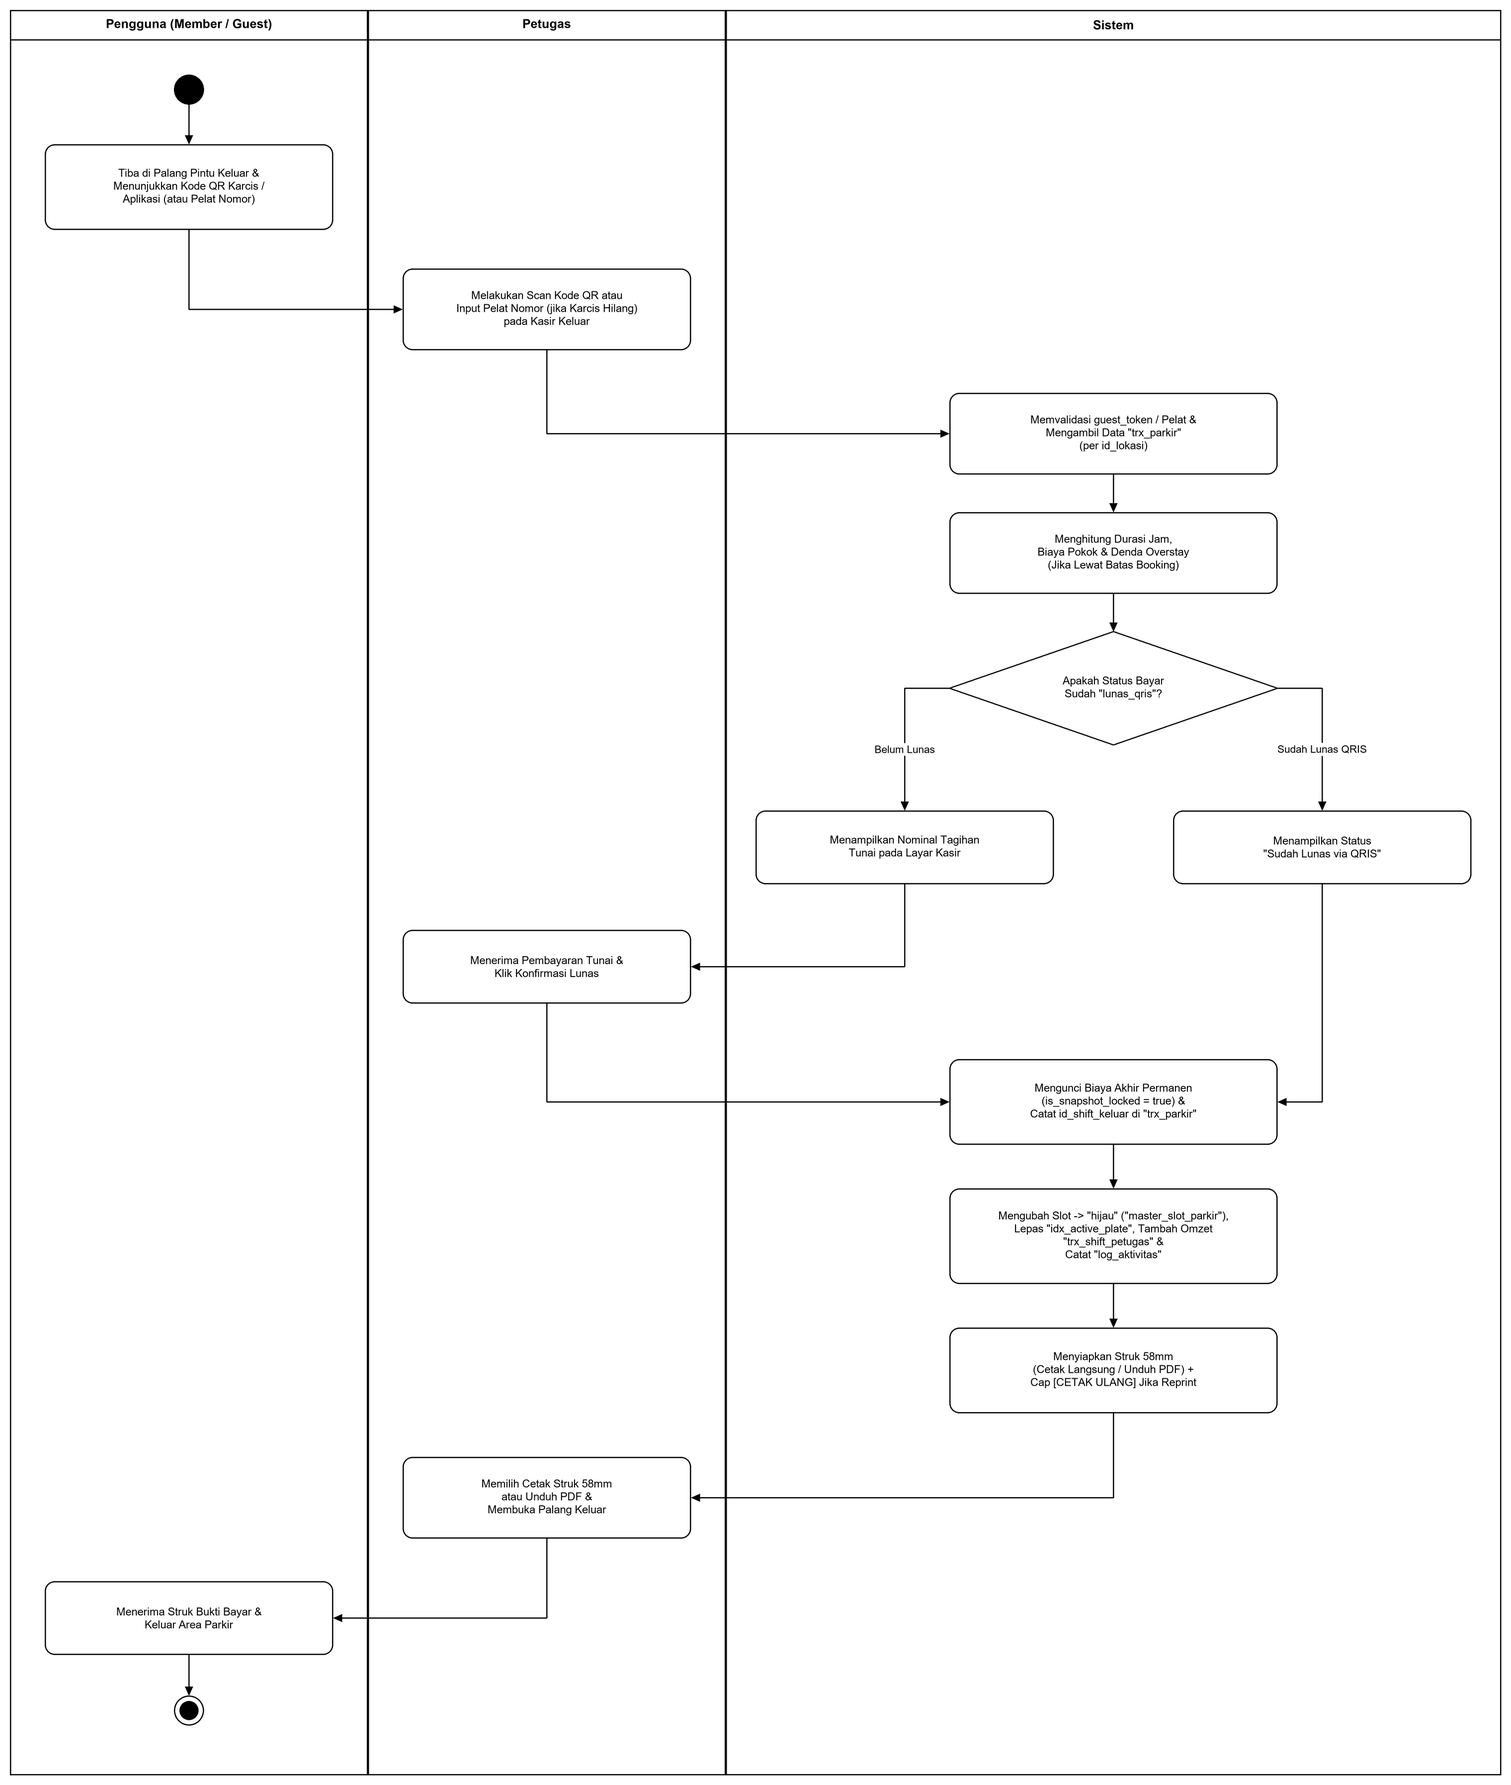
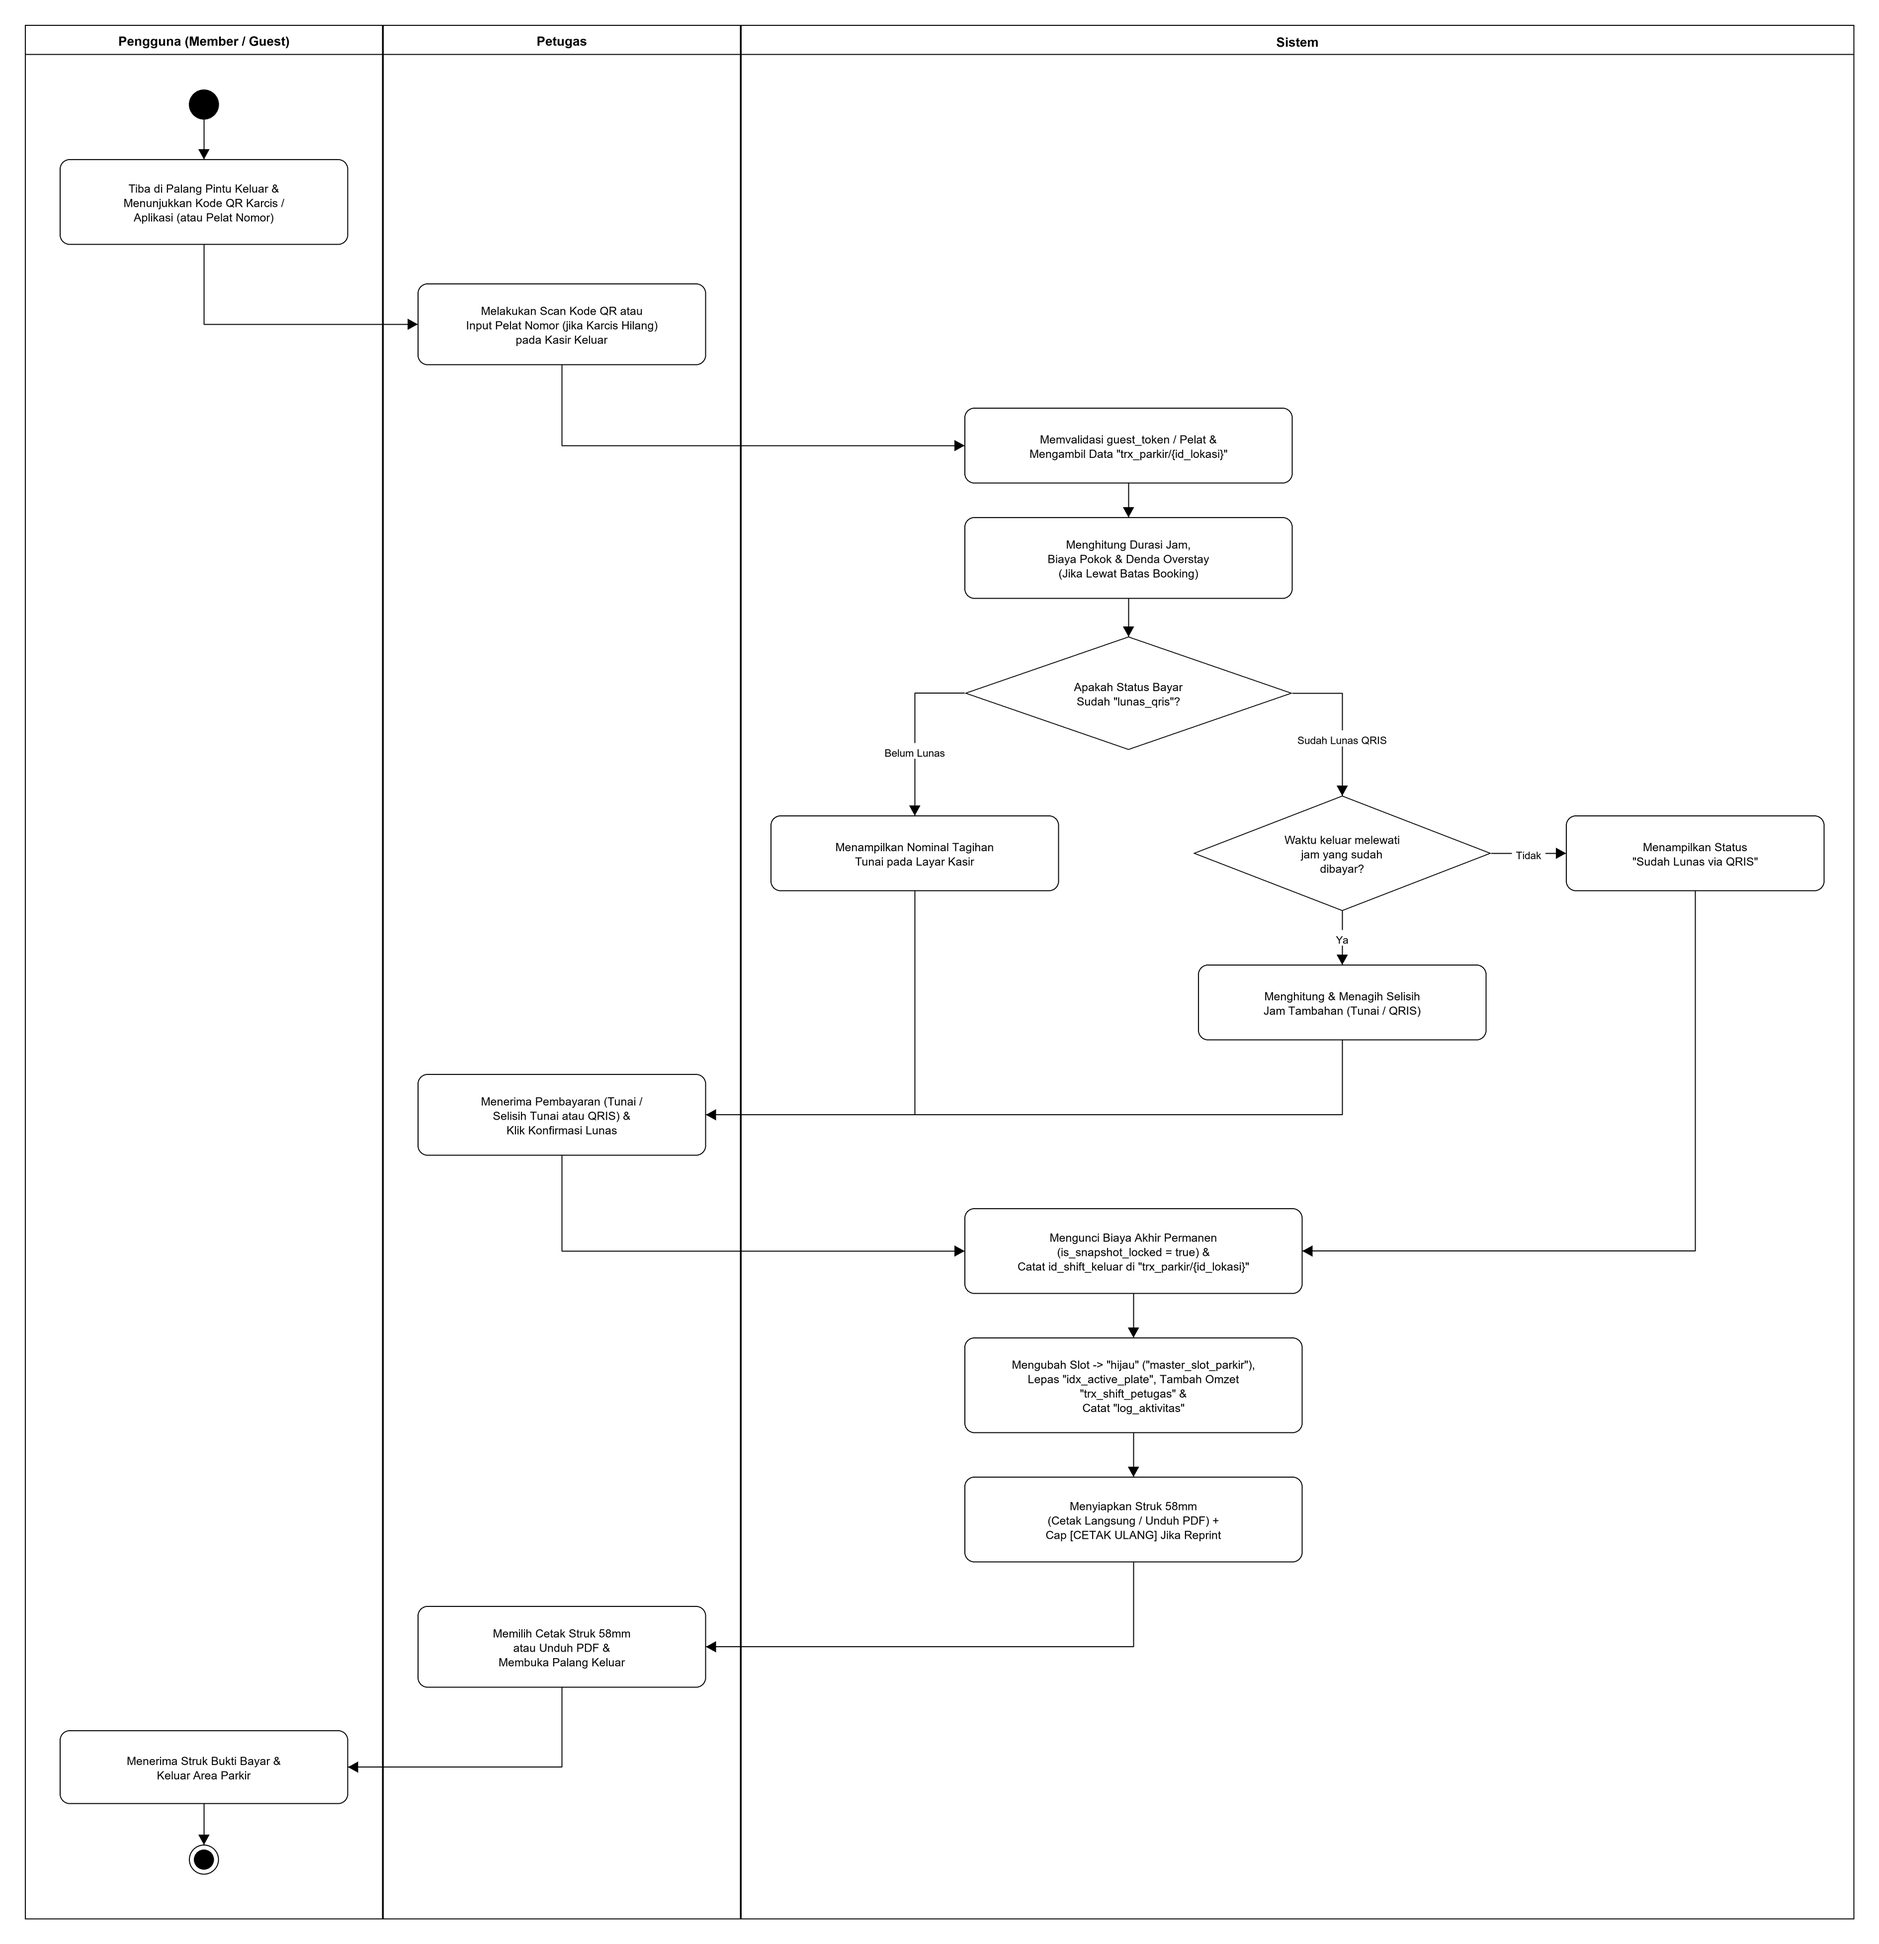
revisi activity keluar gerbang tambah cek selisih jam qris

diff --git a/docs/PROGRESS.md b/docs/PROGRESS.md
@@ -68,8 +68,8 @@ Dokumen ini memantau status pengerjaan setiap butir revisi hasil sidang Quality 
 | **12/13** | `Diagram ParkSpot UKK-Sequence Pembayaran (QRIS) (Revisi)` | 🟢 Selesai | 🟢 Selesai | 🟢 PASS (Batch ACC) | 5 lifeline (termasuk Midtrans Sandbox), 1..16 urut, rasio H/W 0.70, kembali ke aktor |
 | **13/13** | `Diagram ParkSpot UKK-Use Case (Revisi)` | 🟢 Selesai | 🟢 Selesai | 🟢 PASS (Batch ACC) | 6 aktor (termasuk Midtrans Sandbox), Opsi 1 Pindai QR Booking, fitur shift lengkap |
 | **Bonus 1** | `Diagram ParkSpot UKK-DFD LEVEL 0 (Revisi)` *(Update teks Petugas)* | 🟢 Selesai | 🟢 Selesai | 🟢 PASS (Batch ACC) | Ganti "Pembaruan Status Slot Overstay" $\rightarrow$ "Pindai QR Booking / Input Pelat Masuk" |
-| **Bonus 2** | `Diagram ParkSpot UKK-Activity Keluar Gerbang & Print Struk (Revisi)` | 🟡 Sedang Dikerjakan | 🟡 Sedang Dikerjakan | 🔴 Antre | Tambah keputusan "Waktu keluar melewati jam yang sudah dibayar?" (tagih selisih tunai/QRIS) |
-| **Bonus 3** | `Diagram ParkSpot UKK-Sequence Keluar Gerbang & Cetak Struk (Revisi)` | 🔴 Belum | 🔴 Belum | 🔴 Antre | Tambah alt "Waktu keluar melewati jam yang sudah dibayar?" (sinkron Activity) |
+| **Bonus 2** | `Diagram ParkSpot UKK-Activity Keluar Gerbang & Print Struk (Revisi)` | 🟢 Selesai | 🟢 Selesai | 🟢 PASS (Batch ACC) | Tambah keputusan "Waktu keluar melewati jam yang sudah dibayar?" (tagih selisih tunai/QRIS) |
+| **Bonus 3** | `Diagram ParkSpot UKK-Sequence Keluar Gerbang & Cetak Struk (Revisi)` | 🟡 Sedang Dikerjakan | 🟡 Sedang Dikerjakan | 🔴 Antre | Tambah alt "Waktu keluar melewati jam yang sudah dibayar?" (sinkron Activity, rasio kompak <= 1.4x) |
 
 ---
 
